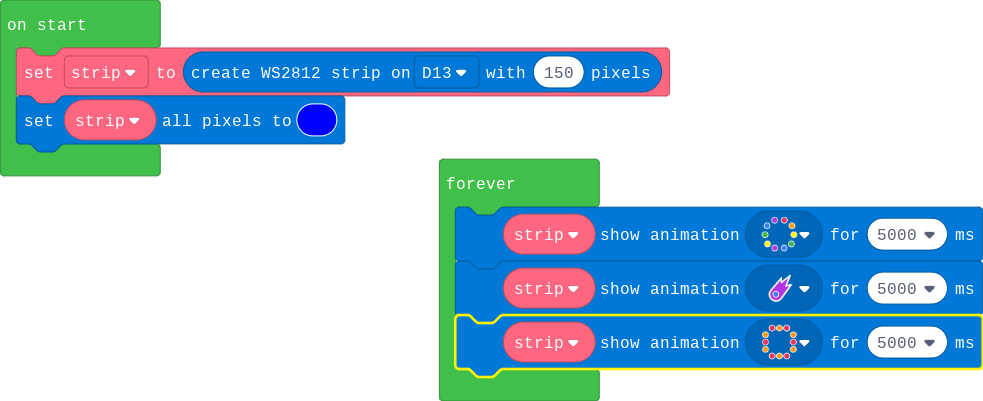
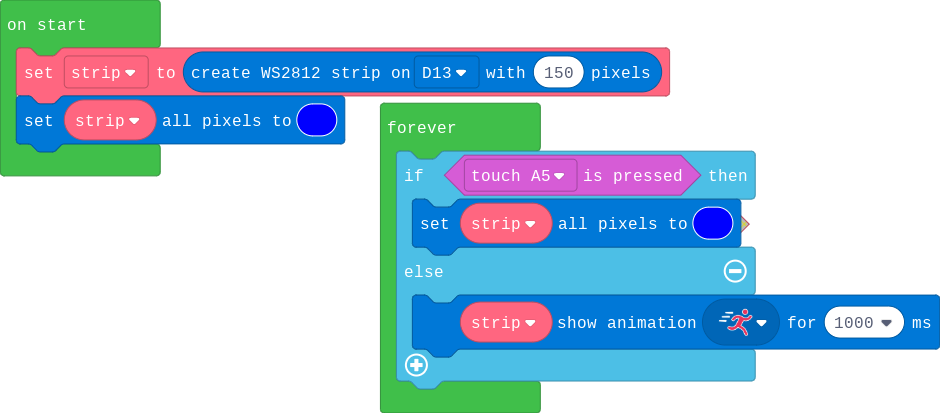
Update main.blocks, main.ts

diff --git a/main.ts b/main.ts
@@ -1,7 +1,9 @@
 let strip = light.createStrip(pins.D13, 150)
 strip.setAll(0x0000ff)
 forever(function () {
-    strip.showAnimation(light.rainbowAnimation, 5000)
-    strip.showAnimation(light.cometAnimation, 5000)
-    strip.showAnimation(light.theaterChaseAnimation, 5000)
+    if (input.touchA5.isPressed()) {
+        strip.setAll(0x0000ff)
+    } else {
+        strip.showAnimation(light.runningLightsAnimation, 1000)
+    }
 })
